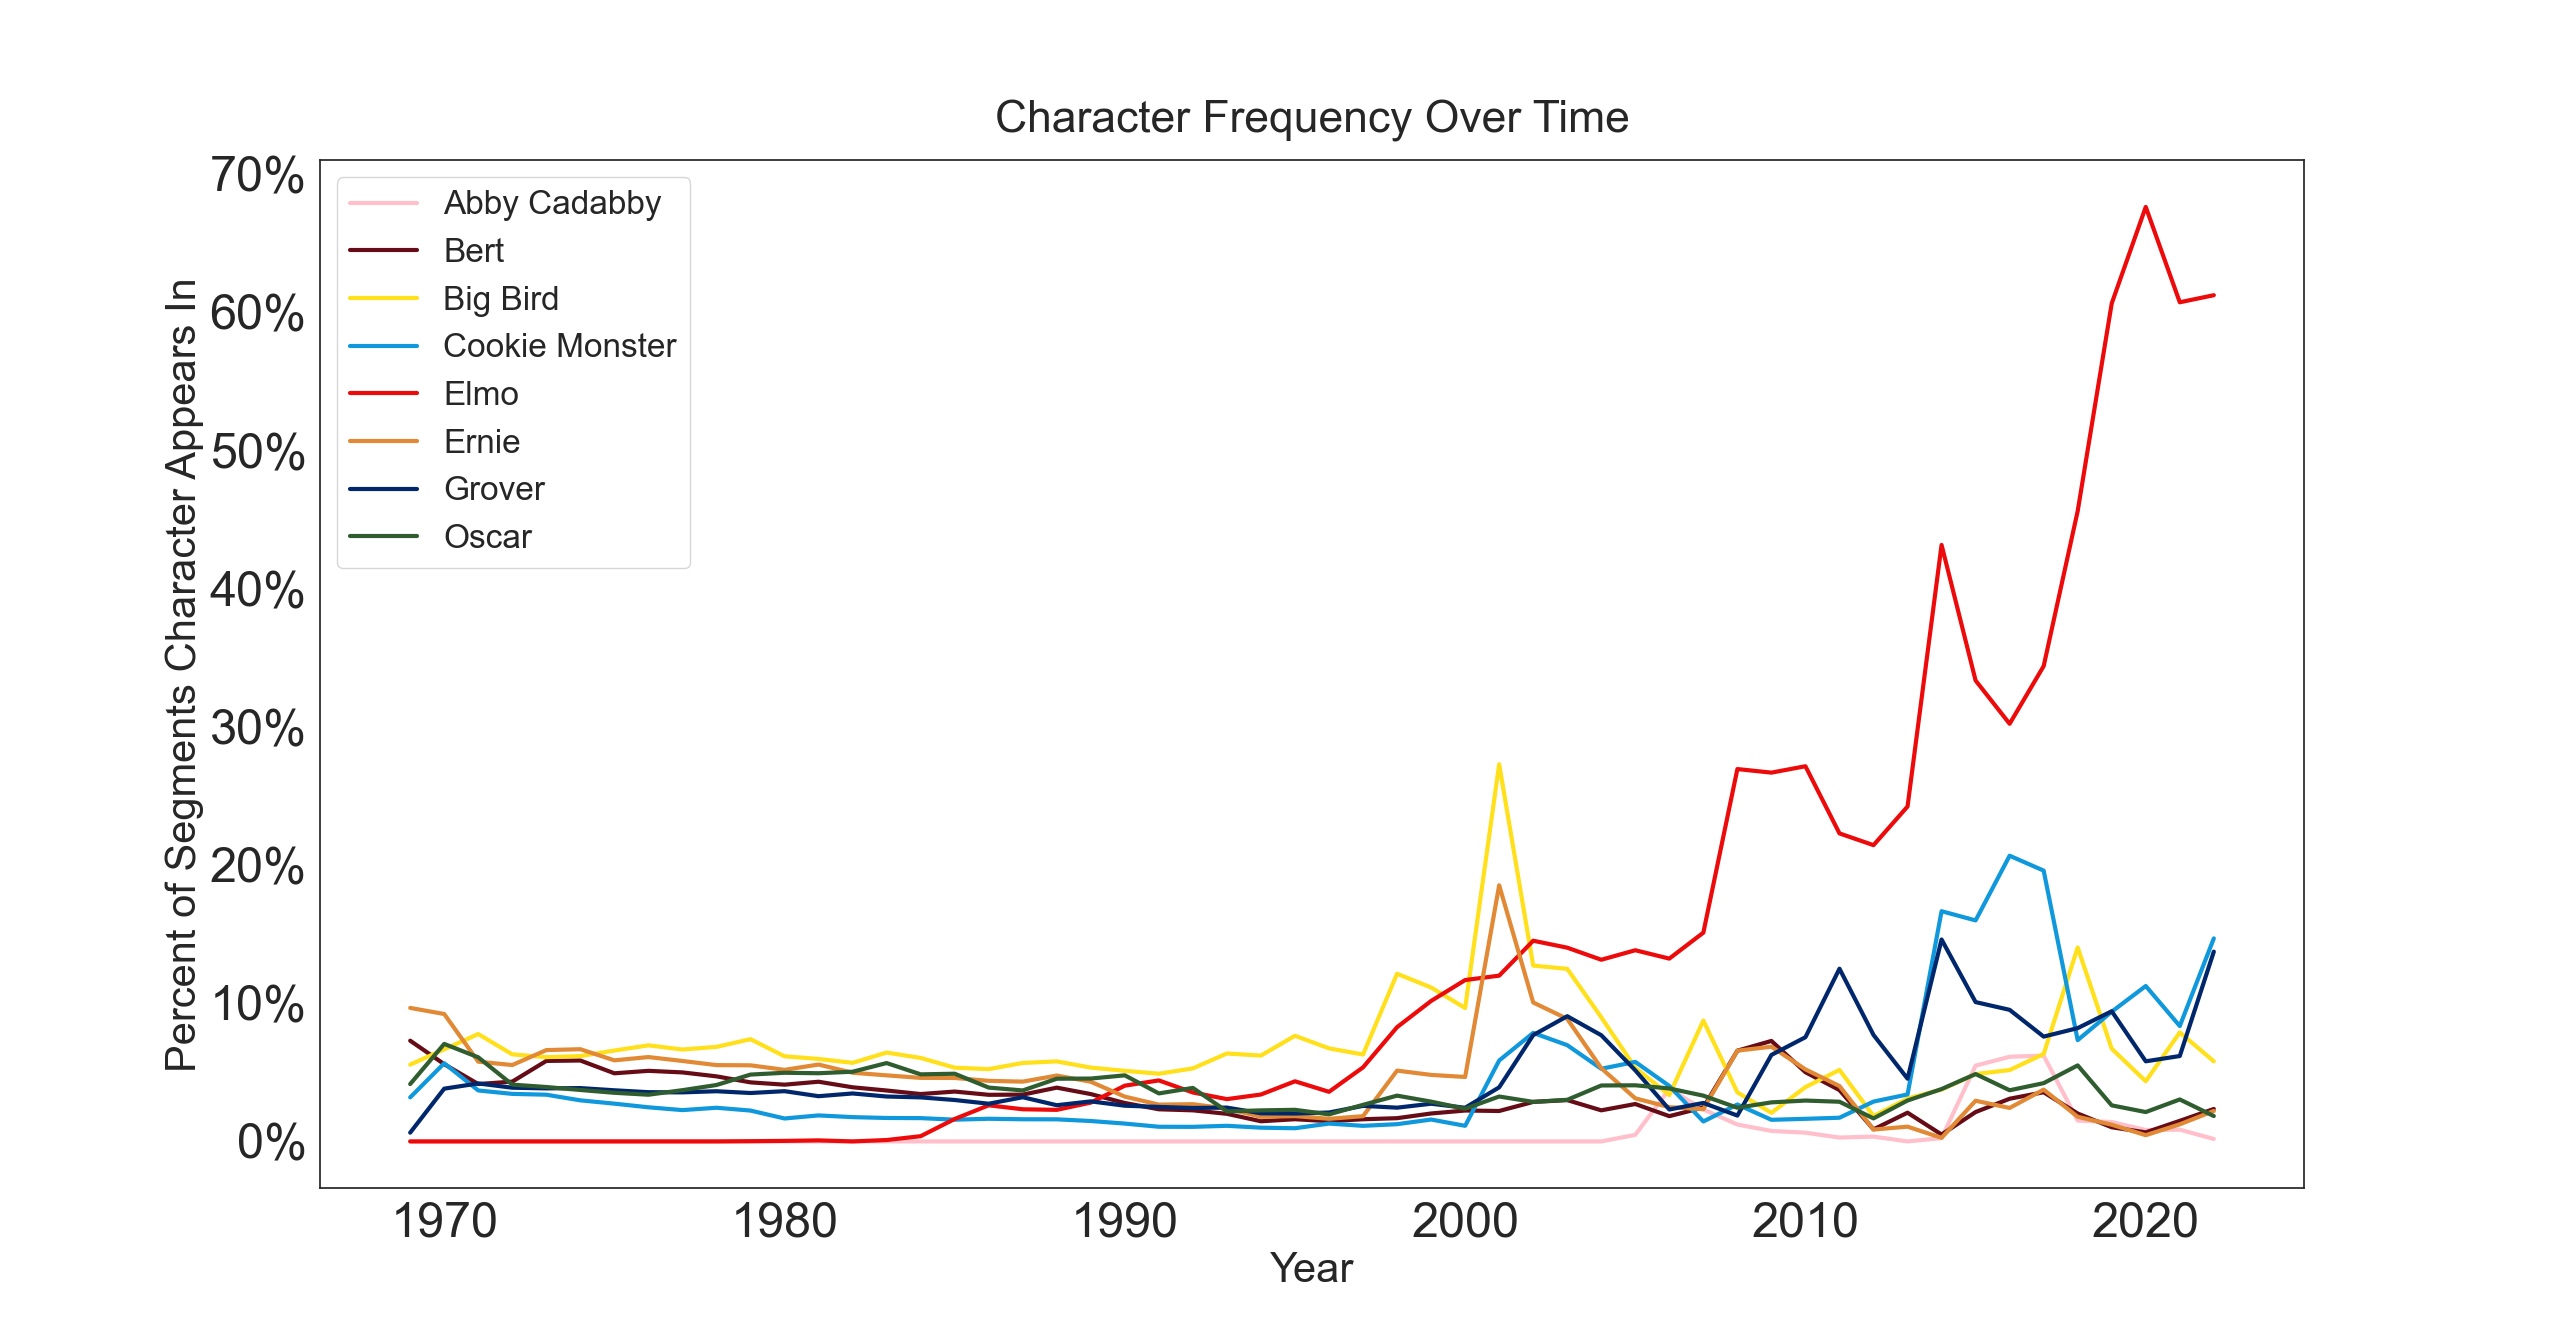
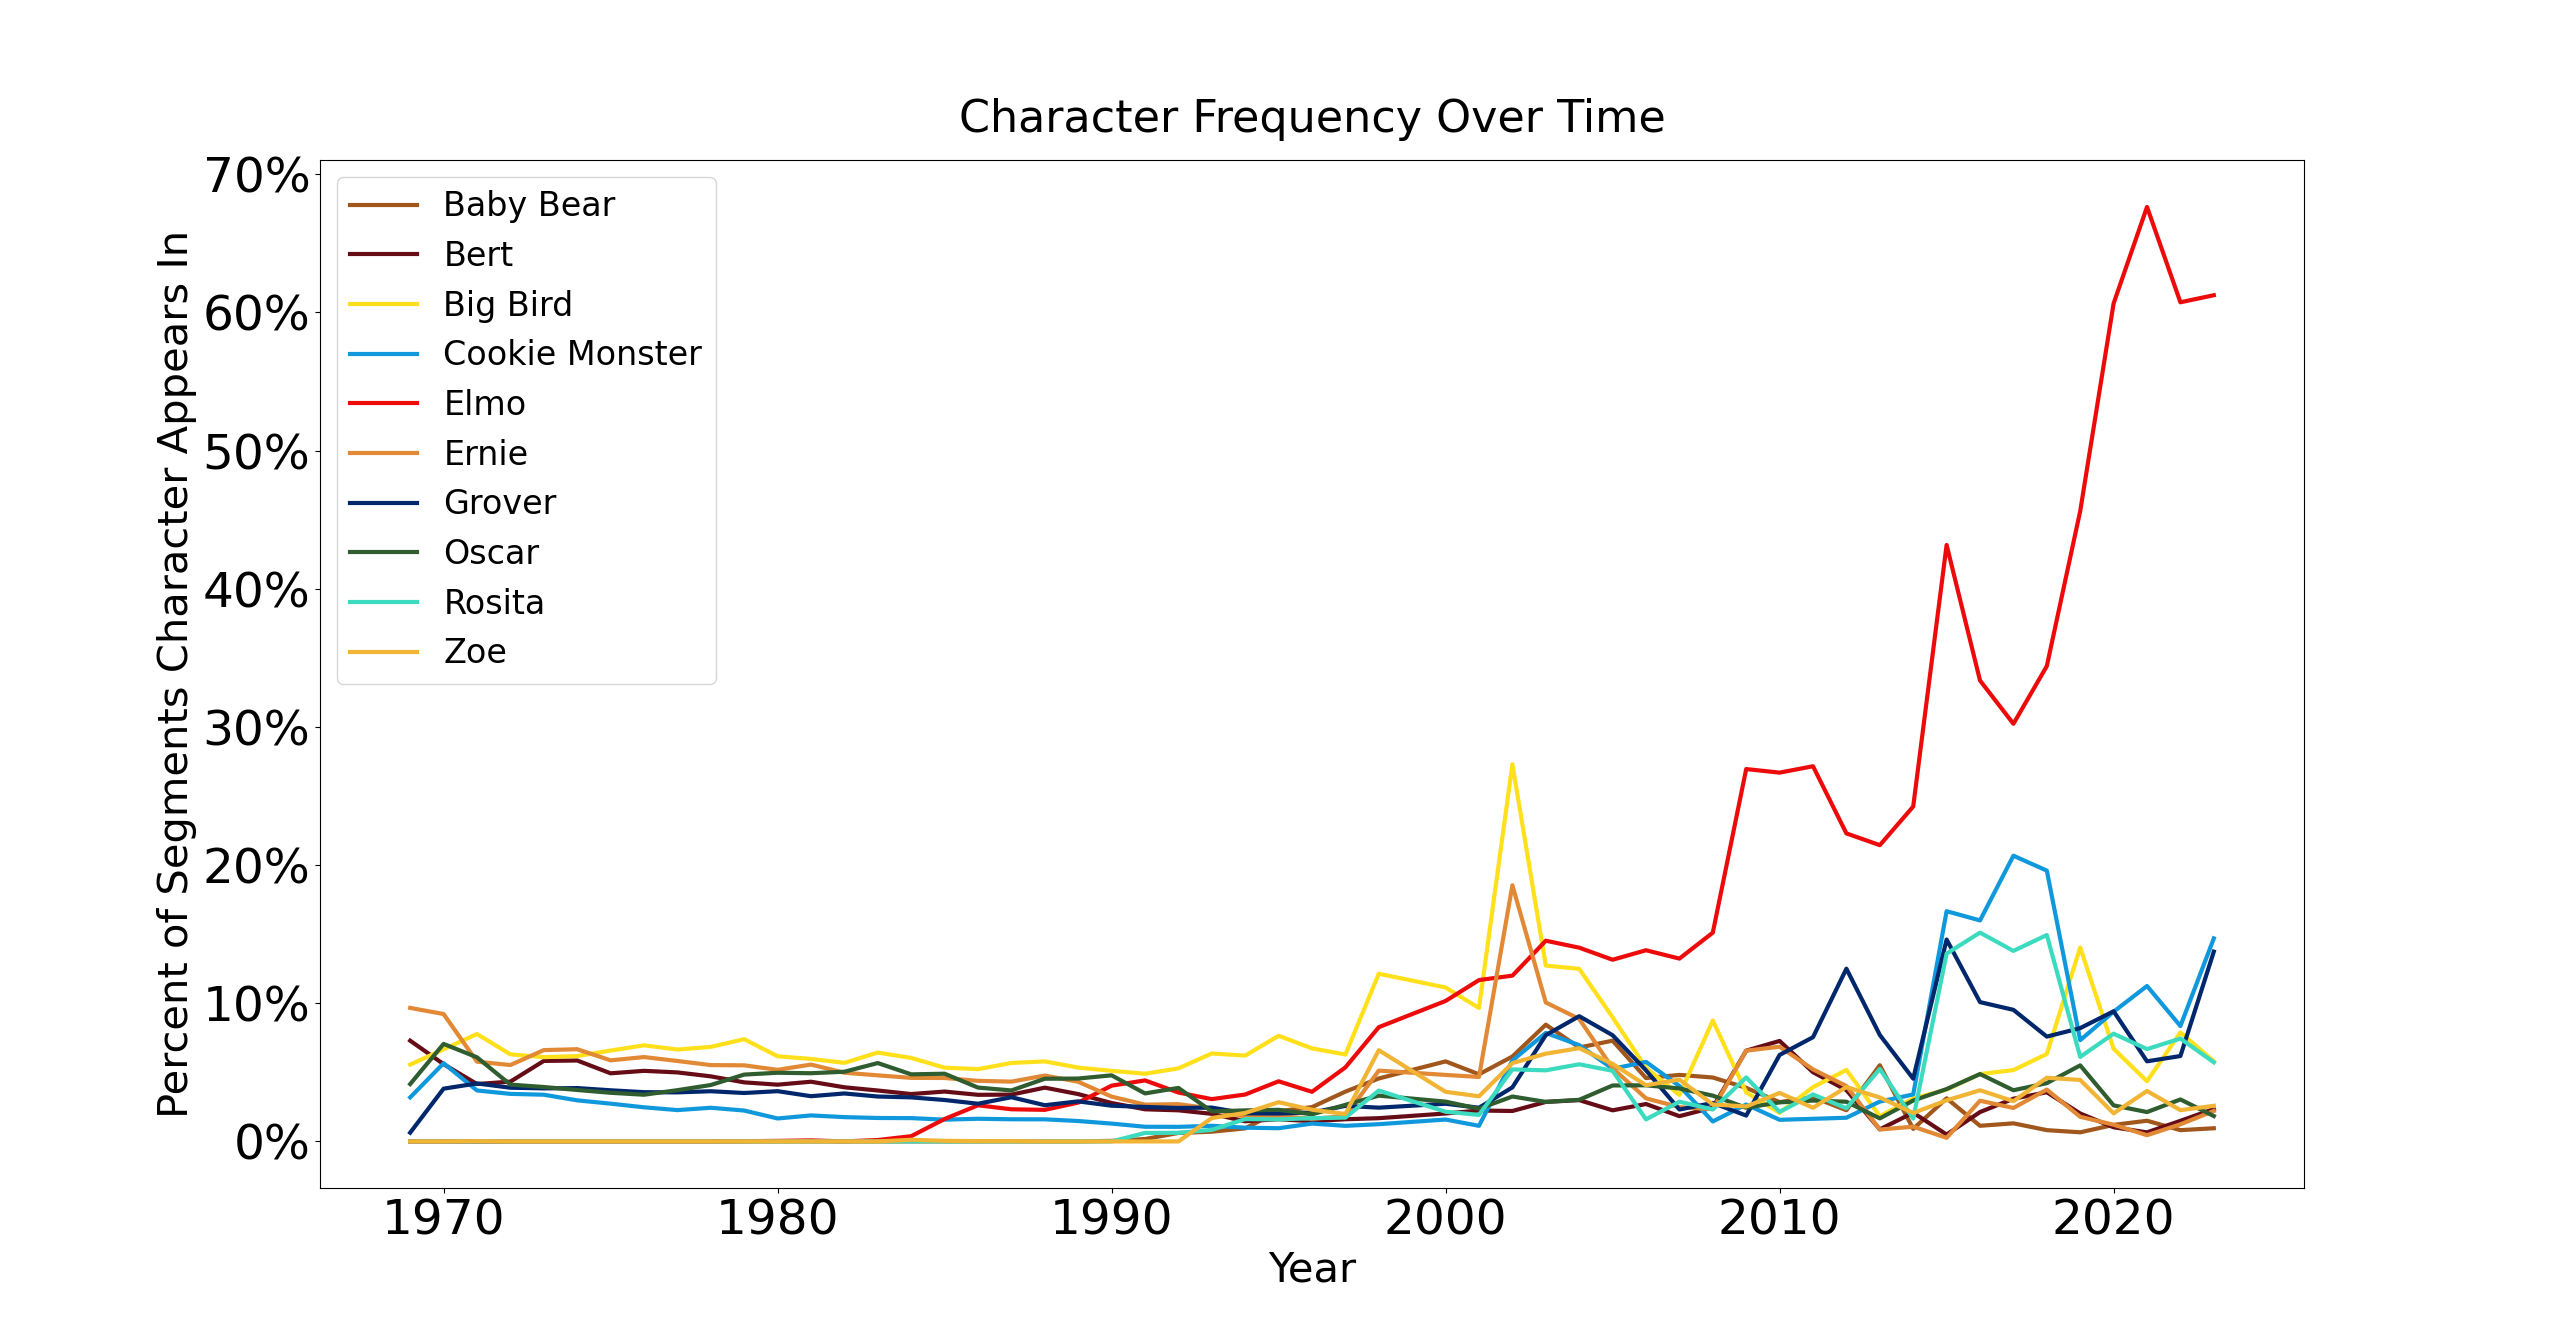
adding cumulative sesame street figure, and adjusting the other figures appearances slightly

diff --git a/docs/sesame-street.md b/docs/sesame-street.md
@@ -25,12 +25,18 @@ A natural question is: what does the future hold for Sesame Street? We can expec
 ![elmo  forecast](/assets/sesame_Figure_3.png)  
 
 
+Elmo has completely taken over Sesame Street, but the original characters had a 20 year headstart. Has he been popular long enough to be the all-time most popular muppet? Not quite. He has just surpassed Oscar for all-time segments, but Big Bird and Ernie still have (rapidly diminishing) leads.
+
+![Cumulative Segments Per Season](/assets/sesame_Figure_Cumulative.png)  
+
 ### Methods
 Model fitting done with Scipy's curve_fit
 \
 95% confidence interval was found with a Monte Carlo simulation of possible parameter sets, based on the covariance matrix from curve_fit.
 \
+Data was initially collected for the [30 most commonly searched muppets  on the wiki](https://muppet.fandom.com/wiki/Category:Sesame_Street_Muppet_Characters), along with some additional characters of interest I threw in.
 \
+Charts only displayed muppets who were in the top five for most appearances in a season, for at least three seasons through the show's history.
 \
 \
 ![elmo  forecast](/assets/elmo.jpg_large)
